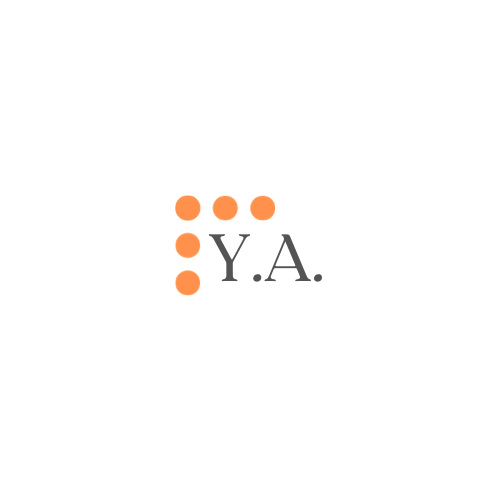
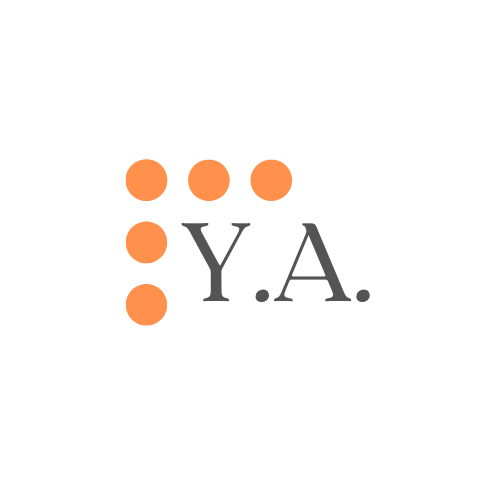
feat: new fonts

Changed region(s): [[0.24, 0.3, 0.6, 0.66], [0.51, 0.42, 0.75, 0.6]]

diff --git a/src/Components/Feedback/FeedbackFormDialog/FeedbackFormDialog.tsx b/src/Components/Feedback/FeedbackFormDialog/FeedbackFormDialog.tsx
@@ -53,7 +53,7 @@ const FeedbackFormDialog = ({
         draggable={false}
         header={
           <>
-            <div className="text-color1">Please fill out this form</div>
+            <div className="text-color1 font-heading font-normal">Please fill out this form</div>
           </>
         }
         className={`aboutDialog ${
@@ -73,38 +73,38 @@ const FeedbackFormDialog = ({
         >
           <div className="flex flex-col md:flex-row gap-x-3 gap-y-3">
             <div className="w-full md:w-1/2 flex flex-col gap-y-3">
-              <label className="text-lg">Your Email Address:</label>
+              <label className="text-lg font-heading">Your Email Address:</label>
 
               <input
                 title="Email address"
-                className="h-10 px-4 bg-color3 text-color1 rounded-lg"
+                className="h-10 px-4 bg-color3 text-color1 rounded-lg font-content"
                 type="email"
                 name="Email"
                 required
               />
             </div>
             <div className="w-full md:w-1/2 flex flex-col gap-y-3">
-              <label className="text-lg">Your Name:</label>
+              <label className="text-lg font-heading">Your Name:</label>
 
               <input
                 title="Name"
-                className="h-10 px-4 bg-color3 text-color1 rounded-md"
+                className="h-10 px-4 bg-color3 text-color1 rounded-md font-content"
                 type="text"
                 name="Name"
               />
             </div>
           </div>
           <div className="w-full flex flex-col gap-y-3">
-            <label className="text-lg">Your Message:</label>
+            <label className="text-lg font-heading">Your Message:</label>
 
             <textarea
               title="You message"
-              className="h-40 p-4 bg-color3 text-color1 rounded-lg resize-none"
+              className="h-40 p-4 bg-color3 text-color1 font-content rounded-lg resize-none"
               name="Msg"
               required
             ></textarea>
           </div>
-          <div className="w-full h-12 flex flex-row-reverse justify-center items-center gap-x-4">
+          <div className="w-full h-12 flex flex-row-reverse justify-center items-center gap-x-4 font-content">
             <Button
               title="click to send"
               icon={<span className="material-symbols-rounded mr-2">send</span>}

diff --git a/src/Components/About/About.tsx b/src/Components/About/About.tsx
@@ -155,12 +155,12 @@ const About = ({ reference, setExpandAboutDialog }: AboutProps) => {
           lessThan768px ? "pt-5 sm:pt-10" : "pt-10 sm:pt-20"
         } flex flex-col justify-start items-center gap-y-5`}
       >
-        <h1 className="w-full text-3xl sm:text-4xl lg:text-6xl select-none">
+        <h1 className="w-full text-3xl sm:text-4xl lg:text-6xl font-heading select-none">
           A little bit,
           <br />
           about me...
         </h1>
-        <p className="w-full text-base sm:text-lg lg:text-xl text-right text-color4 select-none">
+        <p className="w-full text-base sm:text-lg lg:text-xl text-right text-color4 font-content select-none">
           my education, working experience,
           <br />
           contact and resume
@@ -183,7 +183,7 @@ const About = ({ reference, setExpandAboutDialog }: AboutProps) => {
                     <h2
                       className={`${
                         state.easyMode ? "mr-2 ml-0 text-right" : "ml-2 mr-0"
-                      } text-2xl md:text-3xl font-medium text-color3 select-none`}
+                      } text-2xl md:text-3xl font-medium text-color3 font-heading select-none`}
                     >
                       {values.header}
                     </h2>
@@ -223,11 +223,11 @@ const About = ({ reference, setExpandAboutDialog }: AboutProps) => {
                             val.year &&
                             val.description && (
                               <div key={k} className="flex flex-col gap-y-3">
-                                <h3 className="w-fit pb-1 text-base md:text-lg font-medium border-b-2 border-color4">
+                                <h3 className="w-fit pb-1 text-base md:text-lg font-medium font-heading border-b-2 border-color4">
                                   {val.year ? val.year : ""}
                                 </h3>
                                 <div className="flex">
-                                  <p className="ml-8 sm:ml-12 md:text-base">
+                                  <p className="ml-8 sm:ml-12 md:text-base font-content">
                                     {val.description}
                                   </p>
                                 </div>

diff --git a/src/Components/About/MoreDetailsDialog/MoreDetailsDialog.tsx b/src/Components/About/MoreDetailsDialog/MoreDetailsDialog.tsx
@@ -29,7 +29,7 @@ const MoreDetailsDialog = ({
         }}
         dismissableMask={true}
         draggable={false}
-        header={<div className="text-color1">{state.modalContent?.header}</div>}
+        header={<div className="text-color1 font-heading font-normal">{state.modalContent?.header}</div>}
         // className="aboutDialog w-full md:w-[65%] h-full md:h-[80%] absolute bottom-0 md:bottom-auto"
         // position={window.innerWidth < 768 ? "bottom" : "center"}
         className={`aboutDialog ${
@@ -47,10 +47,10 @@ const MoreDetailsDialog = ({
           {!state.modalContent?.header.includes("Contact") &&
             state.modalContent?.body?.map((values: any) => (
               <>
-                <h3 className="w-fit pb-1 text-base md:text-lg font-medium border-b-2 border-color4">
+                <h3 className="w-fit pb-1 text-base md:text-lg font-medium font-heading border-b-2 border-color4">
                   {values?.year}
                 </h3>
-                <div className="flex flex-col">
+                <div className="flex flex-col font-content">
                   <div className="ml-8 sm:ml-12 md:text-base flex flex-col gap-y-2">
                     <p className="flex items-center gap-x-5">
                       <span>{values?.description}</span>

diff --git a/src/Components/Home/Home.tsx b/src/Components/Home/Home.tsx
@@ -31,12 +31,12 @@ const Home = ({ reference }: HomeProps) => {
           lessThan768px ? "pt-10" : "pt-20"
         } flex flex-col justify-start items-center gap-y-5`}
       >
-        <h1 className="w-full text-3xl sm:text-4xl lg:text-6xl select-none">
+        <h1 className="w-full text-3xl sm:text-4xl lg:text-6xl font-heading select-none">
           Hey everyone,
           <br />
           myself {primaryInfo.name}
         </h1>
-        <p className="w-full text-base sm:text-lg lg:text-xl text-right text-color4 select-none">
+        <p className="w-full text-base sm:text-lg lg:text-xl text-right text-color4 font-content select-none">
           and, I am currently working as {primaryInfo.currentPosition}
           <br />
           <span className="pi pi-at"></span> {primaryInfo.currentOrganisation}

diff --git a/src/Components/Feedback/Feedback.tsx b/src/Components/Feedback/Feedback.tsx
@@ -26,12 +26,12 @@ const Feedback = ({ reference, setExpandFeedbackDialog }: FeedbackProps) => {
           lessThan768px ? "pt-5 sm:pt-10" : "pt-10 sm:pt-20"
         } flex flex-col justify-start items-center gap-y-5 select-none`}
       >
-        <h1 className="w-full text-3xl sm:text-4xl lg:text-6xl">
+        <h1 className="w-full text-3xl sm:text-4xl lg:text-6xl font-heading">
           Thank you,
           <br />
           for visiting this page
         </h1>
-        <p className="w-full text-base sm:text-lg lg:text-xl text-right text-color4">
+        <p className="w-full text-base sm:text-lg lg:text-xl text-right text-color4 font-content">
           also, want to share some feedback ? <br /> Please fill out this form
         </p>
       </div>

diff --git a/src/App.scss b/src/App.scss
@@ -1,3 +1,7 @@
+// @import url("https://fonts.googleapis.com/css2?family=Homemade+Apple&family=Raleway:ital,wght@0,100..900;1,100..900&display=swap");
+@import url('https://fonts.googleapis.com/css2?family=Cabin+Condensed:wght@400;500;600;700&family=Sniglet:wght@400;800&display=swap');
+
+
 @import "primereact/resources/primereact.min.css";
 @import "primeicons/primeicons.css";
 @import "primereact/resources/themes/tailwind-light/theme.css";
@@ -13,6 +17,9 @@
     --color3: #ffefc2;
     --color4: #8c584a;
     --color5: #333846;
+
+    --content: "Cabin", sans-serif;
+    --heading: "Sniglet", cursive;
   }
   html[data-theme="night"] {
     --color1: #0a0a0a;

diff --git a/tailwind.config.js b/tailwind.config.js
@@ -1,5 +1,6 @@
 /** @type {import('tailwindcss').Config} */
 // const colors = require("tailwindcss/colors");
+import { fontFamily } from "tailwindcss/defaultTheme";
 
 export default {
   content: [
@@ -19,8 +20,11 @@ export default {
       screens: {
         mdl: "896px",
       },
+      fontFamily: {
+        heading: ["var(--heading)", ...fontFamily.sans], // Specify backup font family as serif
+        content: ["var(--content)", ...fontFamily.serif], // Specify backup font family as sans-serif
+      },
     },
-    
   },
   plugins: [],
 };
